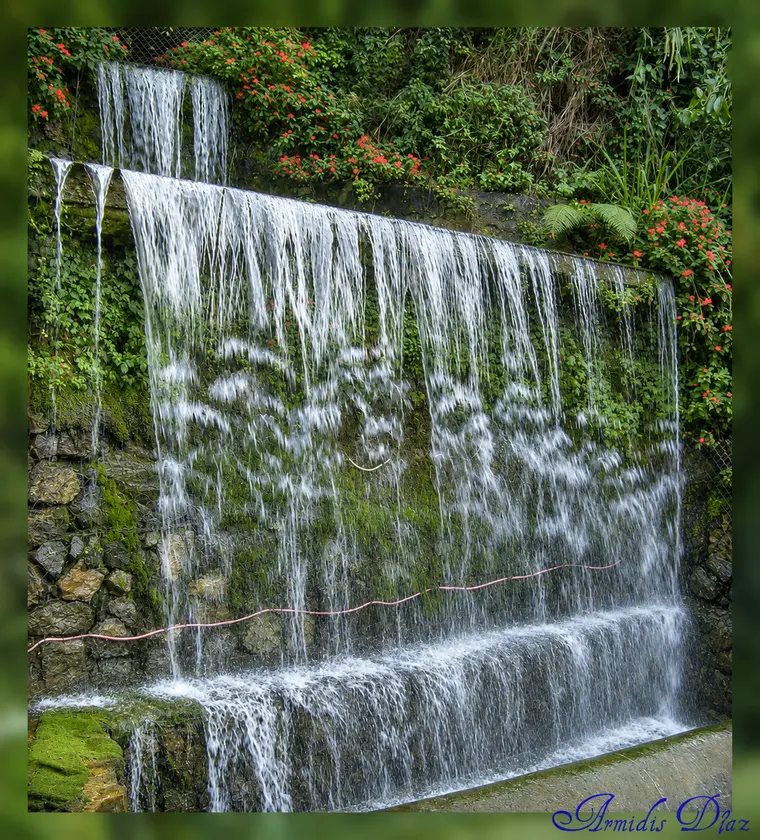
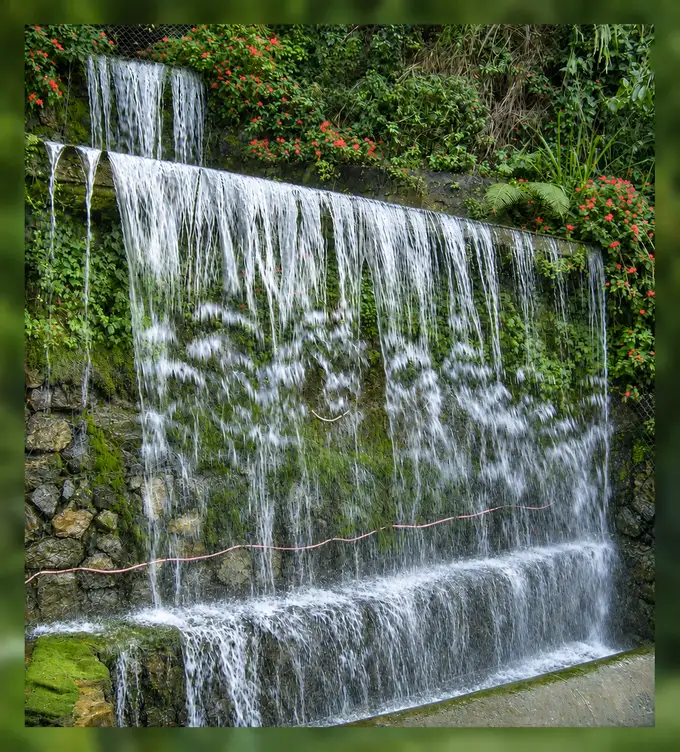
Publish updated La Cortina waterfall photo

diff --git a/guide/app.js b/guide/app.js
@@ -18,7 +18,7 @@ const placePhotos = {
     "https://www.tripadvisor.nl/Attraction_Review-g675009-d4978569-Reviews-La_Confluencia-Jarabacoa_La_Vega_Province_Dominican_Republic.html"
   ],
   "Balneario La Cortina": [
-    "place-photos/cortina-cascada.webp"
+    "place-photos/cortina-cascada.webp?v=2"
   ],
   "Calle de las Sombrillas": [
     "place-photos/sombrillas.webp",
@@ -97,6 +97,7 @@ function showGuide() {
       image.src = './guide/' + file;
       image.alt = name;
       image.loading = 'lazy';
+      if (name === 'Balneario La Cortina') image.style.aspectRatio = 'auto';
       figure.append(image);
       if (source) {
         const caption = node('figcaption');

diff --git a/guia.html b/guia.html
@@ -34,6 +34,6 @@
     <main id="content"></main>
     <footer class="frame footer"><span>Nature Paradise Jarabacoa</span></footer>
   </div>
-  <script type="module" src="./guide/app.js?v=cortina-cascada"></script>
+  <script type="module" src="./guide/app.js?v=cortina-cascada-2"></script>
 </body>
 </html>
